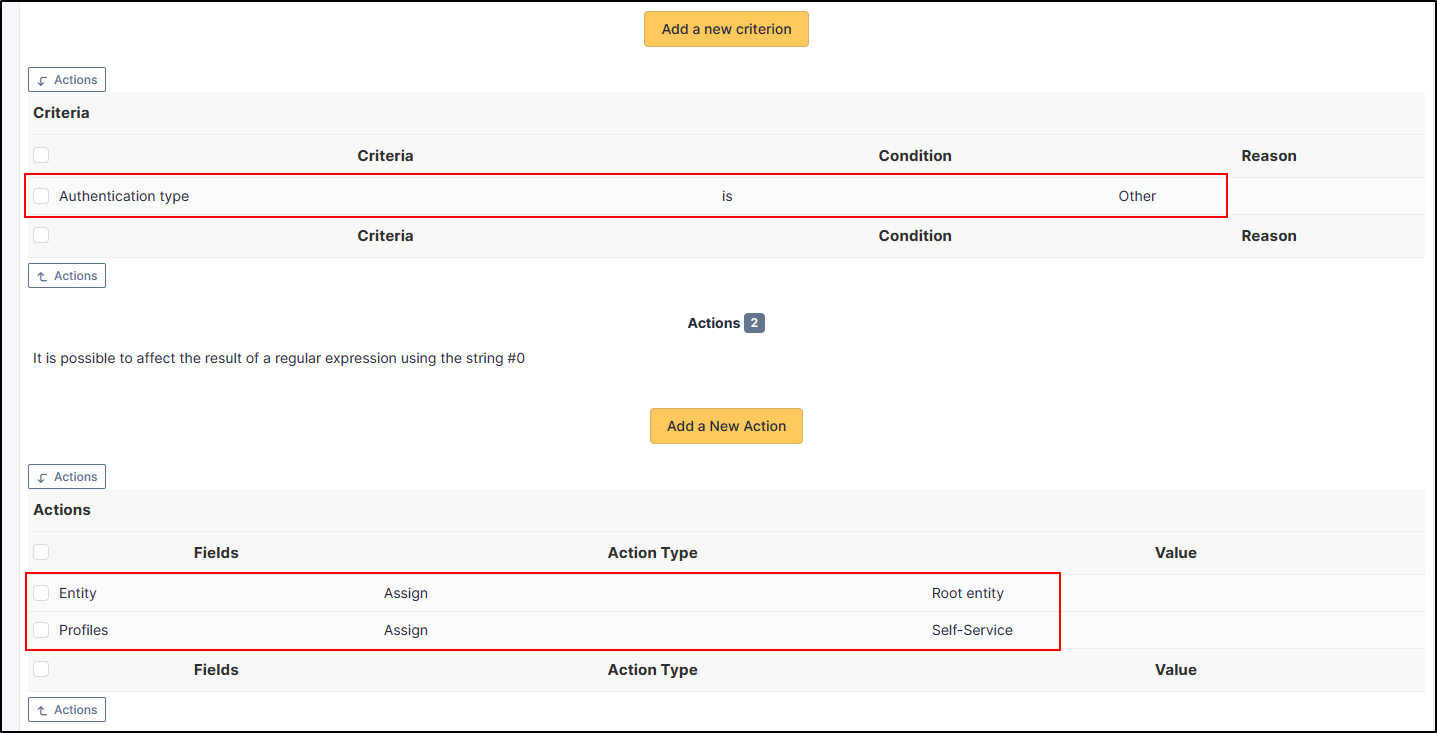
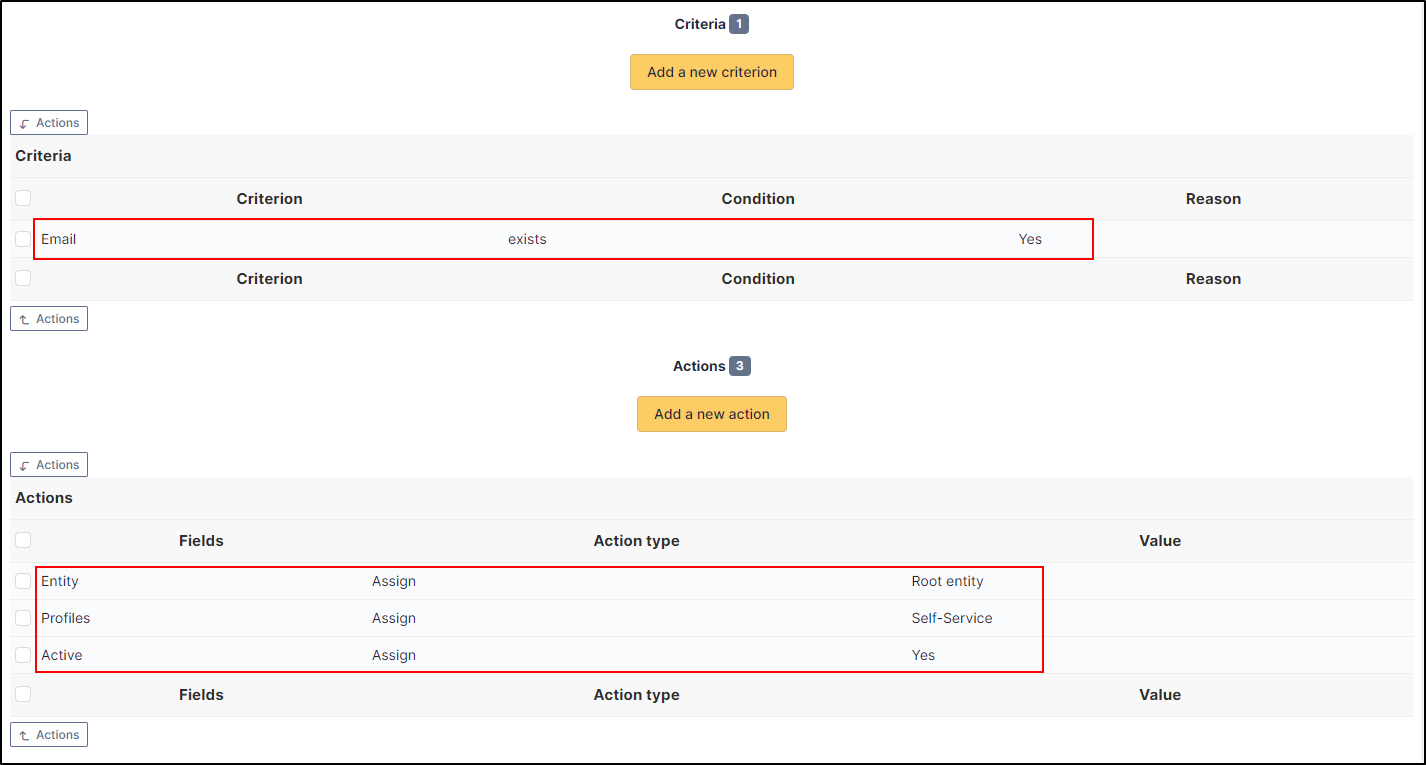
SAML - Add Google

diff --git a/source/saml/entra.rst b/source/saml/entra.rst
@@ -3,11 +3,13 @@ Entra
 
 .. include:: tabs/add-app.rst
 
+.. include:: tabs/for-entra.rst
+
 Add an app in Entra
 -------------------
 
 * Connect to your `Entra portal <https://portal.azure.com/#home>`_
-* click on **Entreprise Application**
+* Click on **Entreprise Application**
 * **And + New application**
 * In the search bar, enter **saml toolkit**
 * Click on **Microsoft Entra SAML Toolkit**
@@ -42,6 +44,15 @@ Setup the app
     :alt: See the values in GLPI
     :scale: 75%
 
+Setup the Service Provider
+---------------------------
+
+In **SP certificate** and **SP Private Key**, copy/paste your certificate in place of those already present.
+There are no strict requirements for these certificates, other than that they are valid X509 certificates.
+
+.. image:: images/certificates-service-provider.png
+    :alt: setup the values
+    :scale: 80%
 
 Setup the Identity Provider
 ---------------------------
@@ -66,16 +77,72 @@ Setup the Identity Provider
     :alt: setup the values
     :scale: 100%
 
+.. tip:: It is advisable to use **none** as the **REQ AUTHN CONTEXT**
+
+Security
+--------
+
+For a production instance, you must activate the **Strict** option.
+
+We advise you to activate **JIT user creation**. This will allow the rules you create from JIT Rules to be applied.
+
+.. image:: images/security.png
+    :alt: options for security
+    :scale: 82%
+
+.. Warning::
+    For the plugin to authenticate a user, the field must contain a **valid UPN** formatted **as an email**.
+    This behaviour can lead to duplicate entries in GLPI when users leave Ldap.
+    This is an important detail because some users who leave Active directory in certain scenarios still use the usersam account name
+    (old netbui names) as the UPN in entra.
+    As a result, the nameId field in the samlResponse will not be populated with a valid email address.
+    The username field is used because the email field is not guaranteed to be unique in GLPI and it is essential that a
+    unique identifier is used to allow authorisation of a specific GLPI user.
+
+
 Add users allowed to use SAML
 -----------------------------
 
 SAML needs users/groups to be added so that they are authorised to use authentication.
 
 * Click on **users and groups** tab,
-
 * Click on **+ Add user/group**
 * Select all the users and groups required
 * Click on **Assign**
+
+.. image:: images/select-users-groups.png
+    :alt: add user allowed
+    :scale: 45%
+
+Mapping
+-------
+
+If you wish to add additional information to your profile, you can use Attributes & Claims.
+Your profile will be populated with the information entered in Entra.
+
+* In **Single sign on**, click on **Edit**
+* Copy the URL of the one of the other claim
+
+.. image:: images/copy_url_claims.png
+    :alt: Copy the URL schema
+    :scale: 78%
+
+* Click on **+ Add new claim**
+* Select a name
+* Paste the URL you've just copied ine **Namespace**
+* Selct **attribute**
+* Search the value that you want in the **Source attribute**
+* Save your modification
+* Repeat this step for all the desired values
+
+
+.. image:: images/add_claims_entra.png
+    :alt: add claims in Entra
+    :scale: 45%
+
+.. image:: images/see_claims_entra.png
+    :alt: see claims in Entra
+    :scale: 83%
 
 .. include:: tabs/rules.rst
 

diff --git a/source/saml/google.rst b/source/saml/google.rst
@@ -1,2 +1,111 @@
 Google
 ======
+
+.. include:: tabs/add-app.rst
+
+Add an app in Google
+--------------------
+
+* Connect to your `Google portal <https://accounts.google.com/>`_
+* Click on **Apps**
+* Cick on **Web and mobile apps**
+* Then, click on **Add app**
+* And **Add custom SAML app**
+
+.. image:: images/add_custom_app.png
+    :alt: create app Google
+    :scale: 43%
+
+* Name your application
+* Click on **Continue**
+
+.. image:: images/app_name.png
+    :alt: give a name to your app
+    :scale: 49%
+
+- Click on **Save** on GLPI.
+
+Setup the Identity Provider
+---------------------------
+
+* Enter the values as shown in the 2 screenshots below
+
+.. image:: images/idp_infos.png
+    :alt: IDP info Google
+    :scale: 49%
+
+.. image:: images/idp_infos_glpi.png
+    :alt: report the values in GLPI
+    :scale: 44%
+
+.. tip:: Copy/paste the content of the certificate in GLPI with the tags *---BEGIN CERTIFICATE--- ---END CERTIFICATE---*
+
+Setup the Service Provider
+---------------------------
+
+* In Service provider details, report the values from GLPI to Google :
+
+.. image:: images/sp_infos_glpi.png
+    :alt: Service provider info GLPI
+    :scale: 44%
+
+.. image:: images/sp_infos.png
+    :alt: Report the values form GLPI
+    :scale: 49%
+
+* From Google, select **EMAIL** in **Name ID format**
+* In **Name ID**, select **Basic information > Primary email**
+* From GLPI, select **Email Address** in **NAMEID FORMAT**
+
+In **SP certificate** and **SP Private Key**, copy/paste your certificate in place of those already present.
+There are no strict requirements for these certificates, other than that they are valid X509 certificates.
+
+.. image:: images/certificates-service-provider.png
+    :alt: setup the values
+    :scale: 80%
+
+* Click on **Continue**
+* Then **Finish**
+
+Your app is now created
+
+.. image:: images/app_created.png
+    :alt: Your app is now created
+    :scale: 44%
+
+Add users allowed to use SAML
+-----------------------------
+
+SAML needs users/groups to be added so that they are authorised to use authentication.
+
+* On your appl, click on **Viex details** tab in **User access**
+* Click on **On for everyone**
+* Click on **Save**
+
+.. image:: images/service_state.png
+    :alt: Allow users to use app
+    :scale: 53%
+
+
+Mapping
+-------
+
+If you wish to add additional information to your profile, you can use Attributes.
+Your profile will be populated with the information entered in Entra.
+
+* In you app, click on **Configure SAML attribute mapping** in **SAML attribute mapping**
+* Copy the URL of the one of the other claim
+* Add informations that you want
+* Click on **Save**
+
+.. image:: images/add_mapping_google.png
+    :alt: add attributes for Google
+    :scale: 45%
+
+.. image:: images/see_attributes.png
+    :alt: Allow users to use app
+    :scale: 60%
+
+.. include:: tabs/rules.rst
+
+.. include:: tabs/source.rst

diff --git a/source/saml/tabs/rules.rst b/source/saml/tabs/rules.rst
@@ -4,15 +4,22 @@ Rules for assigning authorisations
 
 It will be necessary to establish rules for assigning authorisations to your users (to give them a profile, for example).
 
-To do this, go to **Administration** > **Rules** > **Rules for assigning authorisations to a user**.
+To do this, go to **Administration** > **Rules** > **GLPI SAML - Saml import rules** or
+by the button **JIT Rules** directly in the plugin
 
-There are no ‘mandatory’ rules, it’s up to you to create the rule(s) that you feel best suit your needs according to your available criteria.
+   .. image:: images/add-rule.png
+      :alt: add rule
+      :scale: 80%
 
-For example, you want your users with SSO authentication to obtain the Self-Service profile.
+A hard limitation in the current plugin is that the rules can only be bound to the 'email' condition.
+We are planning to allow binding it to additional SamlClaims, currently it only allows the value
+communicated via the nameId property or emailaddress claim.
+
+For example, you want your users with SAML authentication to obtain the Self-Service profile.
 
 You would set your criteria and action as shown here:
 
 
    .. image:: images/rules.png
       :alt: manage cable type
-      :scale: 50%
+      :scale: 45%

diff --git a/source/saml/tabs/add-app.rst b/source/saml/tabs/add-app.rst
@@ -1,9 +1,9 @@
 Add a new SAML Application on GLPI
 ----------------------------------
 
-First of all, you need to add a SAML application on GLPI because we need to report some information on GLPI <-> Entra.
+First of all, you need to add a SAML application on GLPI because we need to report some information on GLPI <-> Entra/Google.
 
-* In **Setup** > **SAML Providers**, click on **+ Add**
+* In **Setup** > **SAML SSO Applications**, click on **+ Add**
 * Give a **name** to your application
 * Click on **is active**
 
@@ -12,14 +12,3 @@ First of all, you need to add a SAML application on GLPI because we need to repo
 .. image:: images/add-app-glpi.png
     :alt: Add GLPI app
     :scale: 42%
-
-* In **Transit** tab, select :
-
-  * Compress requests
-  * Compress respoonses
-
-.. image:: images/transit-setup.png
-    :alt: Setup the transit
-
-    :scale: 42%
-

diff --git a/source/saml/requirements.rst b/source/saml/requirements.rst
@@ -11,6 +11,10 @@ GLPI Version Minimum PHP Recommended
    This plugin is available without a GLPI-Network subscription. It is also available in `Cloud <https://glpi-network.cloud/>`_.
 
 
+.. Warning::
+   You need an admin access to the Entra/Google console to setup the application
+
+
 Download the plugin
 -------------------
 

diff --git a/source/saml/tabs/for-entra.rst b/source/saml/tabs/for-entra.rst
@@ -1,0 +1,8 @@
+* For Entra, in **Transit** tab, select :
+
+  * Compress requests
+  * Compress responses
+
+.. image:: images/transit-setup.png
+    :alt: Setup the transit
+    :scale: 42%
